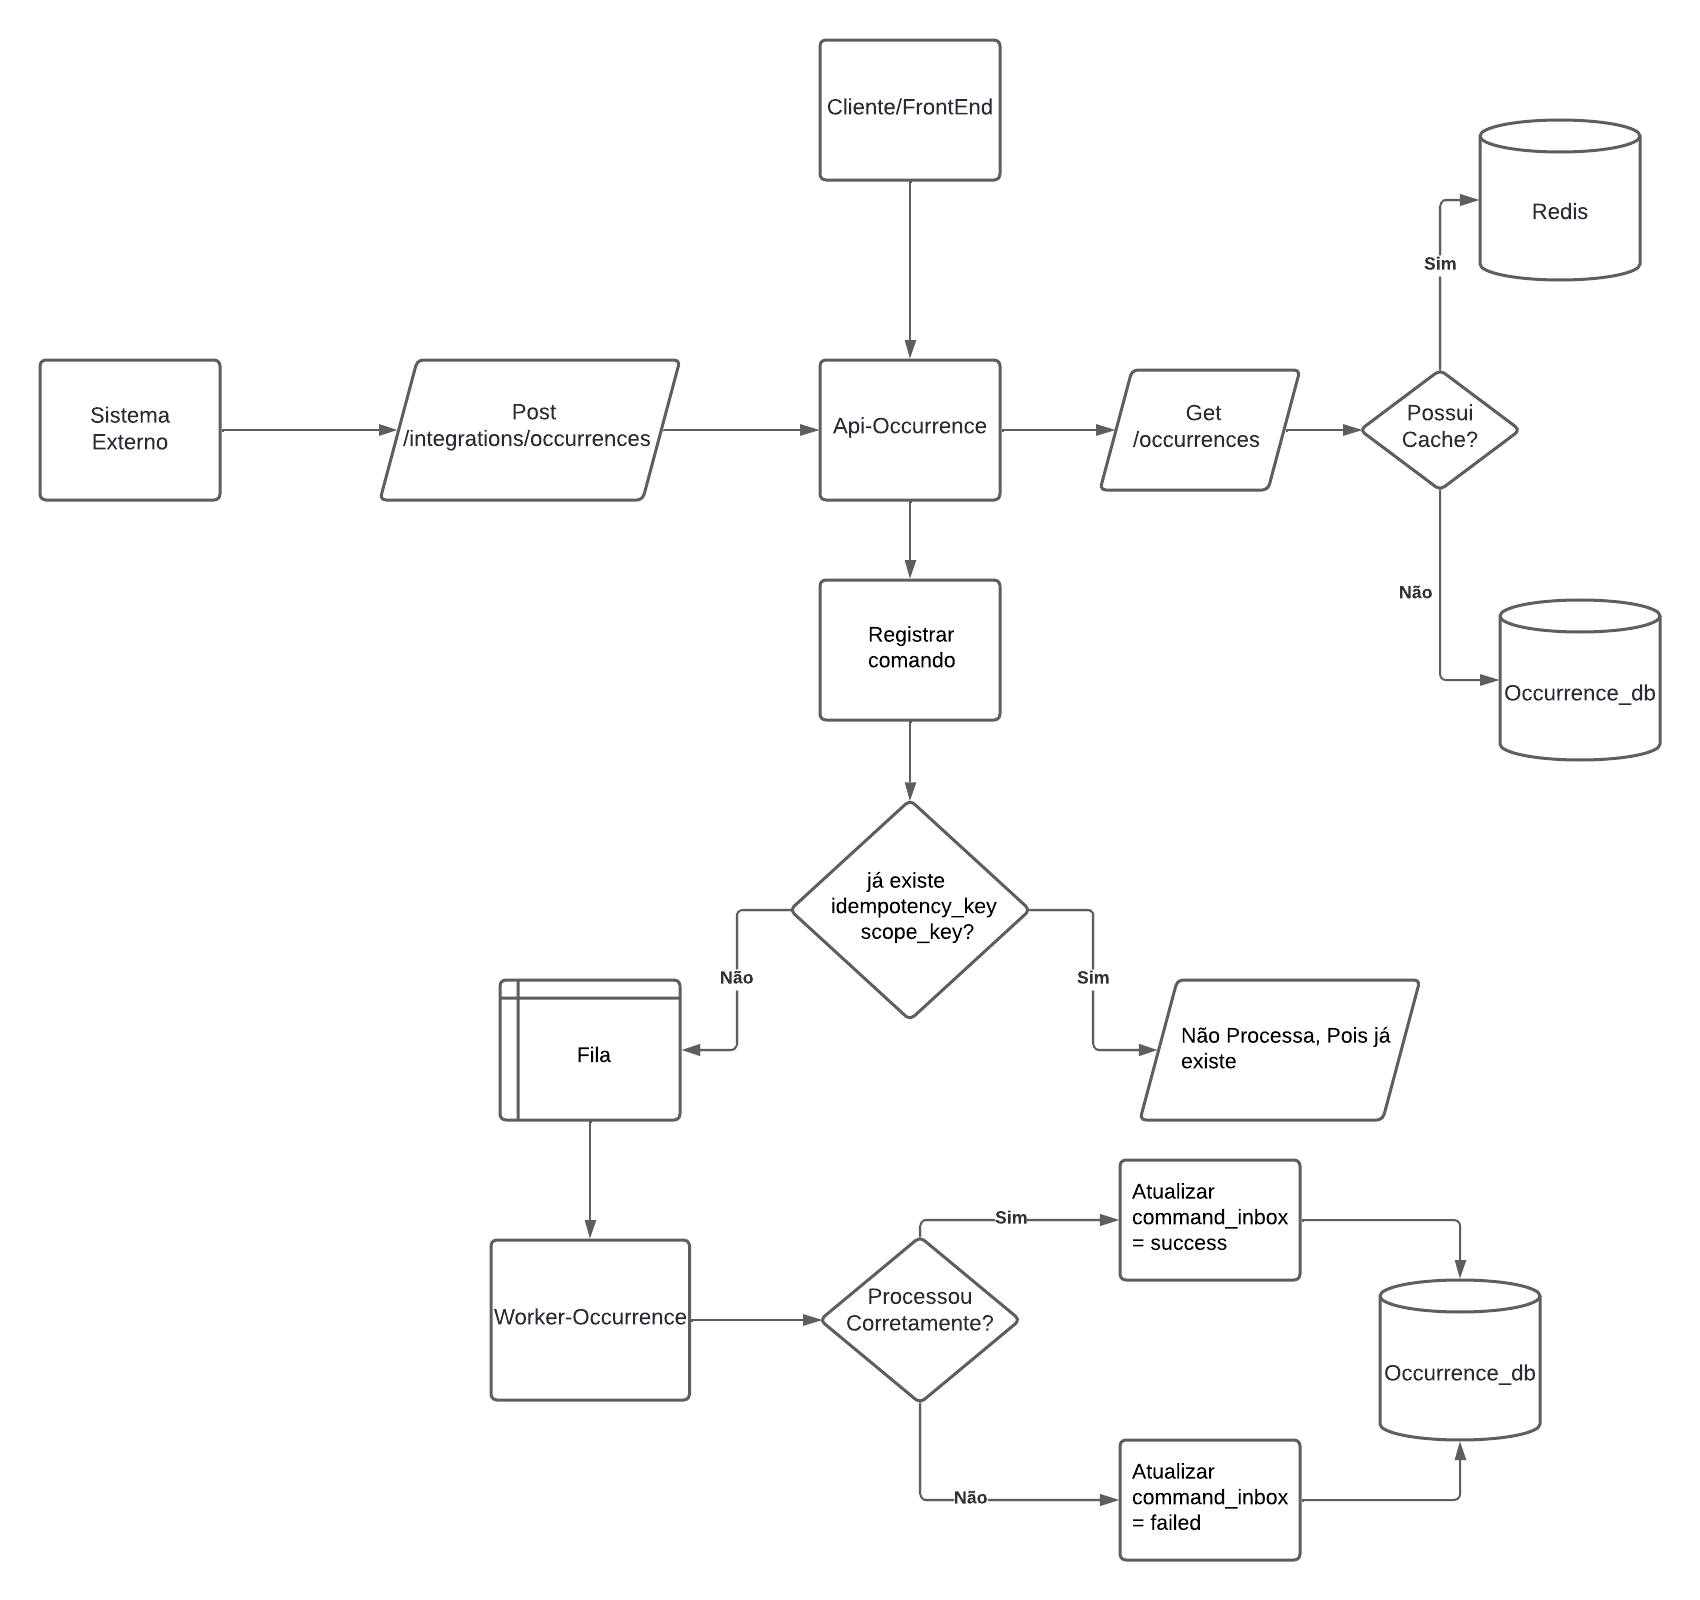
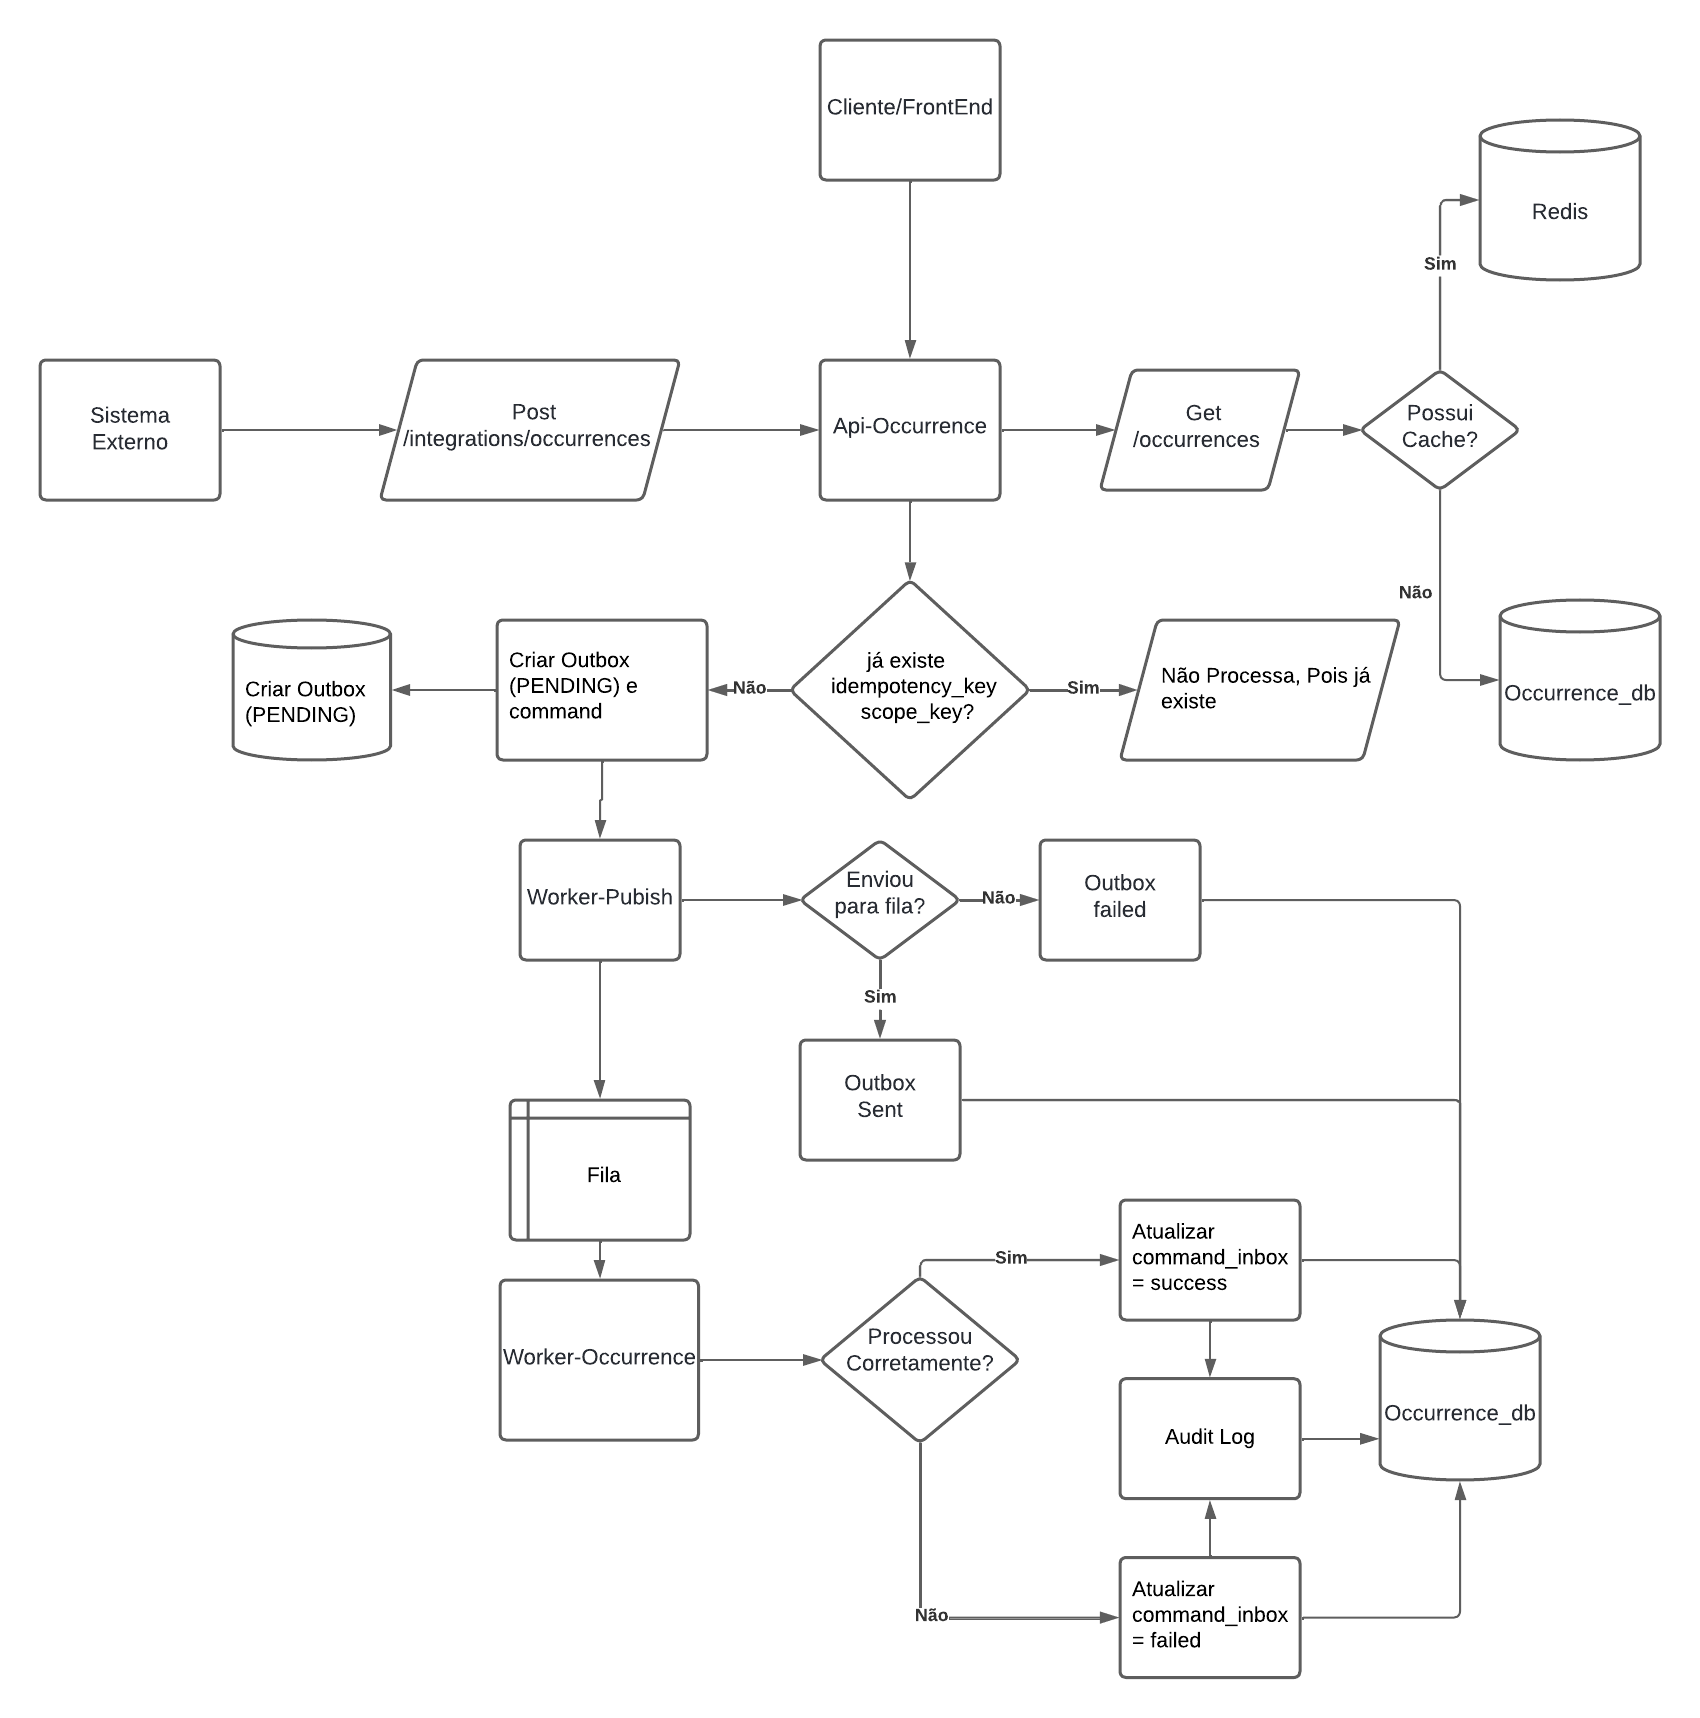
feat: Correção make file e readme atualizado

diff --git a/Readme.md b/Readme.md
@@ -38,7 +38,7 @@ make up BASE_DIR= # Diretorio desejado
 Este comando irá:
   1. Iniciar a API (porta 8089)
   2. Iniciar o Worker (porta 8014)
-  3. Iniciar o Frontend (porta 5173)
+  3. Iniciar o Frontend (porta 3000)
 
 #### Comandos úteis do Makefile
 
